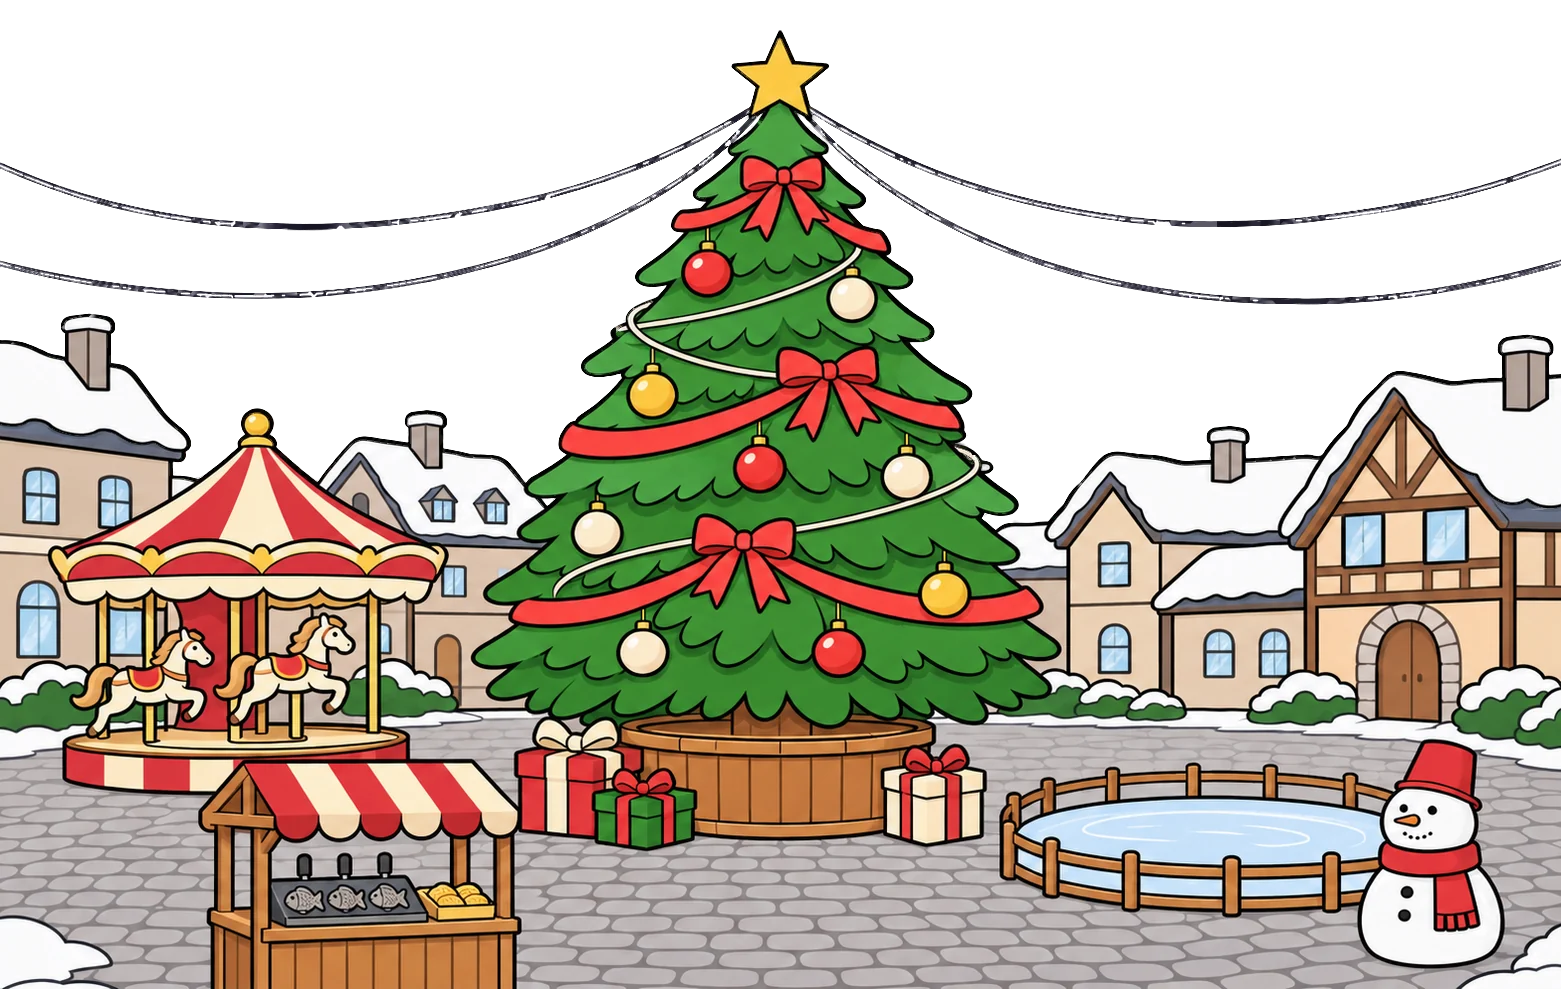
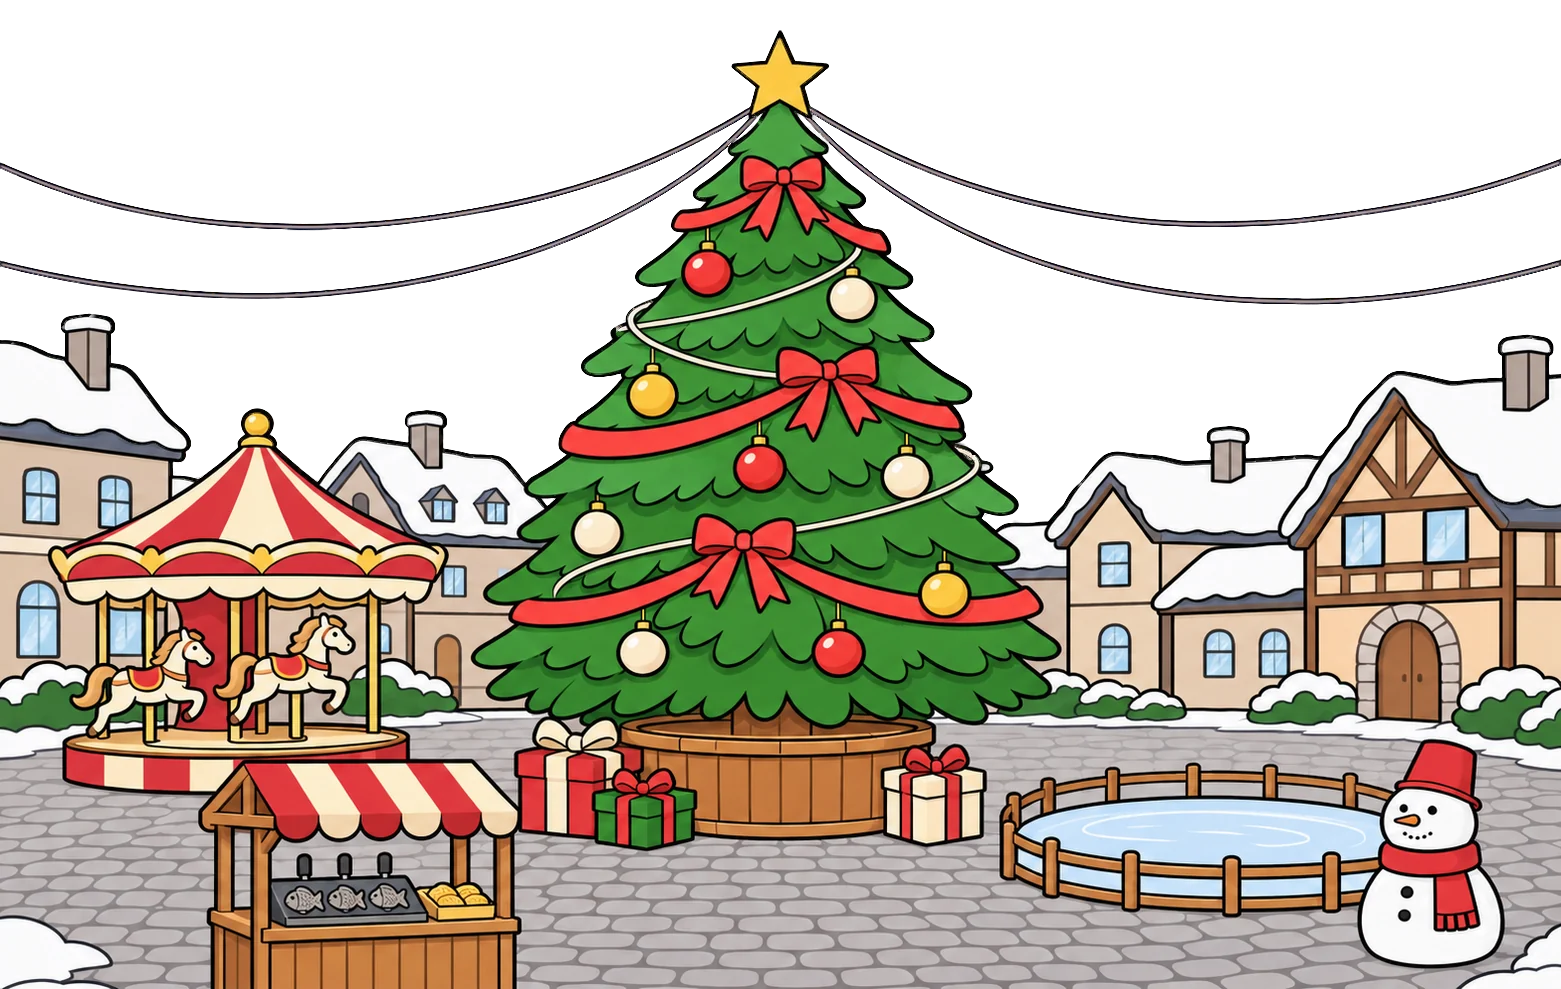
크리스마스 광장 그림 2: 전구 줄 밤 색 그대로 복사(검수 H1, tools/make_plaza_day.py) — implemented (tasks/xmas-plaza-day-art.md)

diff --git a/tools/make_plaza_day.py b/tools/make_plaza_day.py
@@ -5,6 +5,9 @@
 하늘 자리는 밤 그림(web/plaza/xmas-night.webp)의 알파를 그대로 쓴다 — 두 장이 겹쳐 넘어가므로
 윤곽이 한 픽셀도 다르면 안 된다.
 
+전구 줄(트리 위에서 양옆으로 처진 전선): 밤 알파의 가는 선 부분(굵은 덩어리 — 트리·건물 — 에서 떨어진
+곳, 작은 조각 빼고)과 거기서 트리 쪽으로 이어진 밤 회색 끝은 낮 원본 색 대신 밤 그림 색을 그대로 복사한다 — 낮·밤이 같은 회색 줄.
+
 가장자리 정리: 낮 원본이 덜 불투명한 곳(SOLID 미만 — 전선·지붕·트리 가장자리의 옅은 색 잔여, 또는
 밤에는 있고 낮에는 빈 곳)은 색을 믿지 않고 둘레의 불투명한 낮 색으로 채운 뒤 밤 알파를 씌운다.
 
@@ -13,7 +16,7 @@
 """
 import os
 import sys
-from PIL import Image
+from PIL import Image, ImageChops, ImageFilter
 
 ROOT = os.path.join(os.path.dirname(os.path.abspath(__file__)), '..')
 SRC = os.path.join(ROOT, 'assets', 'plaza', 'xmas-day-source-v1.png')
@@ -21,6 +24,9 @@ NIGHT = os.path.join(ROOT, 'web', 'plaza', 'xmas-night.webp')
 OUT = os.path.join(ROOT, 'web', 'plaza', 'xmas-day.webp')
 W, H = 1561, 989
 SOLID = 250   # 낮 원본 알파가 이 값 이상이어야 색을 그대로 쓴다
+THICK = 11    # 이보다 가는 밤 알파 부분이 전선 후보
+WIRE_MIN = 300   # 이보다 작은 가는 조각(별 끝·티끌)은 전선이 아님
+WIRE_GROW = 12   # 트리에 닿는 끝: 전선에서 이만큼까지 밤 색이 회색인 곳도 전선으로 본다
 
 
 def day_scaled():
@@ -50,14 +56,57 @@ def clean_edges(day, night_alpha):
     return len(filled)
 
 
+def wire_mask(night_alpha):
+    m = night_alpha.point(lambda v: 255 if v > 0 else 0)
+    thick = m.filter(ImageFilter.MinFilter(THICK)).filter(ImageFilter.MaxFilter(THICK))
+    thin = ImageChops.subtract(m, thick).load()
+    wires, seen = set(), set()
+    for y in range(H):
+        for x in range(W):
+            if not thin[x, y] or (x, y) in seen:
+                continue
+            part, stack = [], [(x, y)]
+            seen.add((x, y))
+            while stack:
+                cx, cy = stack.pop()
+                part.append((cx, cy))
+                for nx in range(cx - 1, cx + 2):
+                    for ny in range(cy - 1, cy + 2):
+                        if 0 <= nx < W and 0 <= ny < H and thin[nx, ny] and (nx, ny) not in seen:
+                            seen.add((nx, ny))
+                            stack.append((nx, ny))
+            if len(part) >= WIRE_MIN:
+                wires.update(part)
+    return wires
+
+
+def is_wire_gray(rgba):
+    r, g, b, a = rgba
+    return a > 0 and max(r, g, b) - min(r, g, b) < 40 and 50 <= (r + g + b) // 3 <= 210
+
+
+def copy_wires(day, night):
+    px, npx = day.load(), night.load()
+    wires = wire_mask(night.getchannel('A'))
+    edge = set(wires)
+    for _ in range(WIRE_GROW):
+        edge = {(nx, ny) for x, y in edge for nx in (x - 1, x, x + 1) for ny in (y - 1, y, y + 1)
+                if 0 <= nx < W and 0 <= ny < H and (nx, ny) not in wires and is_wire_gray(npx[nx, ny])}
+        wires |= edge
+    for x, y in wires:
+        px[x, y] = npx[x, y][:3] + (255,)
+    return len(wires)
+
+
 def build():
     night = Image.open(NIGHT).convert('RGBA')
     assert night.size == (W, H), night.size
     day = day_scaled()
     n = clean_edges(day, night.getchannel('A'))
+    nw = copy_wires(day, night)
     day.putalpha(night.getchannel('A'))
     day.save(OUT, 'WEBP', quality=86, method=6)
-    print(f'{OUT}: {W}×{H}, 가장자리 {n}px 채움')
+    print(f'{OUT}: {W}×{H}, 가장자리 {n}px 채움, 전선 {nw}px 밤 색 복사')
     return day, night
 
 

diff --git a/tasks/xmas-plaza-day-art.md b/tasks/xmas-plaza-day-art.md
@@ -38,3 +38,4 @@
   - 가장자리: 낮 원본 알파 250 미만인 곳(전선·지붕·트리 가장자리의 옅은 색 잔여, 밤엔 있고 낮엔 빈 곳) 약 2.4만 px는 둘레의 불투명한 낮 색으로 채운 뒤 밤 알파를 씌움. 남색·하늘색 바탕에 겹쳐 밝은 테두리 없음 확인.
   - 비교 그림: `python3 tools/make_plaza_day.py --gif assets/plaza/_daynight.gif` — 같은 하늘색 바탕에 낮·밤 0.7초씩 번갈아(원본 폴더라 git 무시, 커밋 안 함). 전선은 낮 원본에서 1px쯤 위아래로 다르게 그려진 곳이 있으나 윤곽은 밤 알파라 같음.
 - 2026-11-15 검수 지적(M1) 반영(Claude): 끝낸 요구사항 4개·자동 확인 2개 체크. (사람) 항목은 주인 검수에 남김.
+- 2026-11-15 검수 지적(H1) 반영(Claude): 전구 줄 3가닥이 낮 그림에서 검은 바탕에 흰 조각이 섞인 끊긴 선이던 것을 고침 — `tools/make_plaza_day.py`의 `copy_wires`: 밤 알파에서 굵은 덩어리(11px 열기)를 빼고 남은 가는 선 중 300px 이상 이어진 조각을 전선으로 보고, 거기서 트리 쪽으로 12px까지 밤 색이 회색인 곳까지 넓혀 밤 그림 색을 그대로 복사(약 2.1만 px). 낮·밤이 같은 회색 줄. 트리에 감긴 줄(트리 안)은 낮 색 그대로. `_daynight.gif` 다시 만듦.
